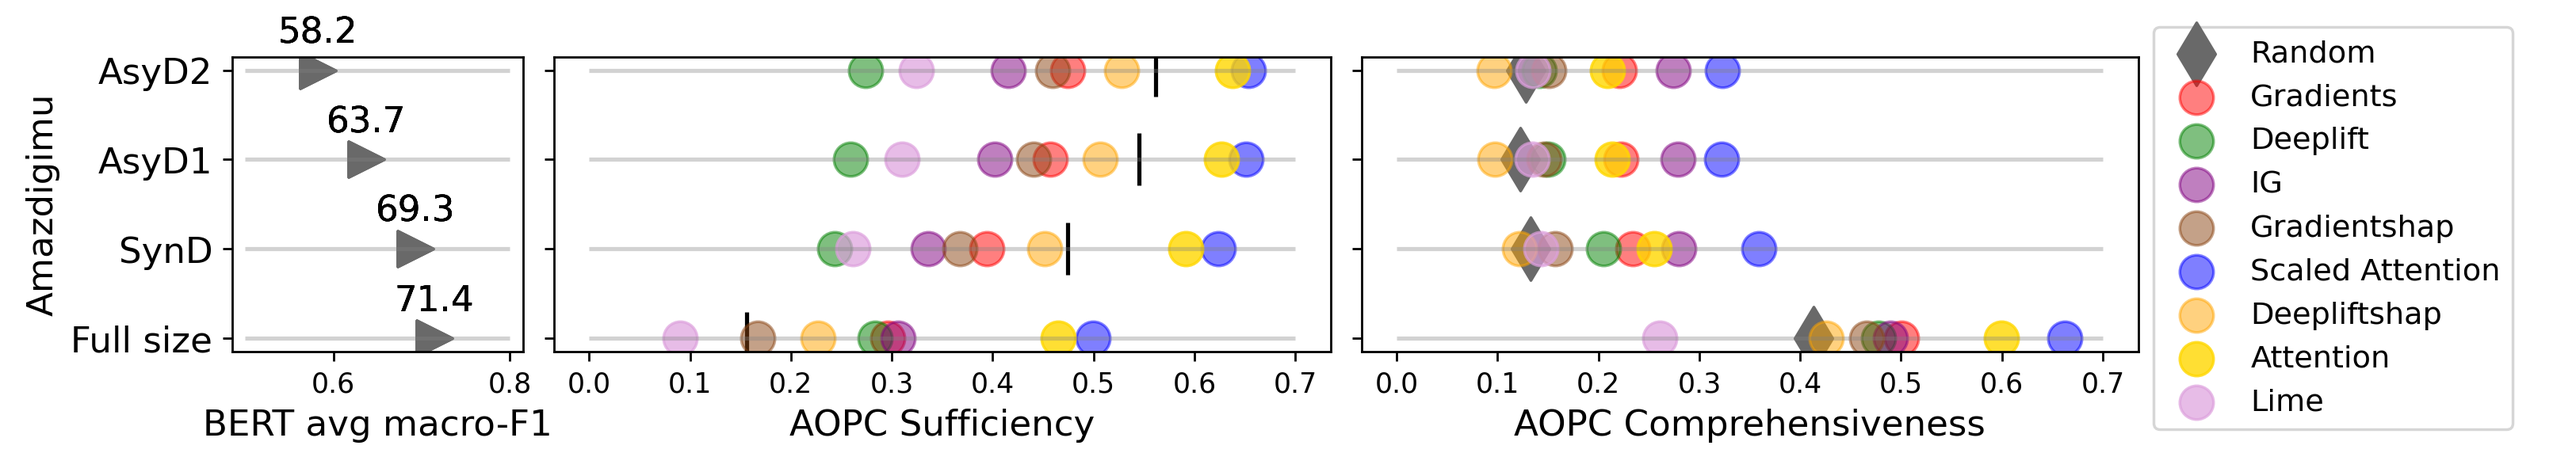
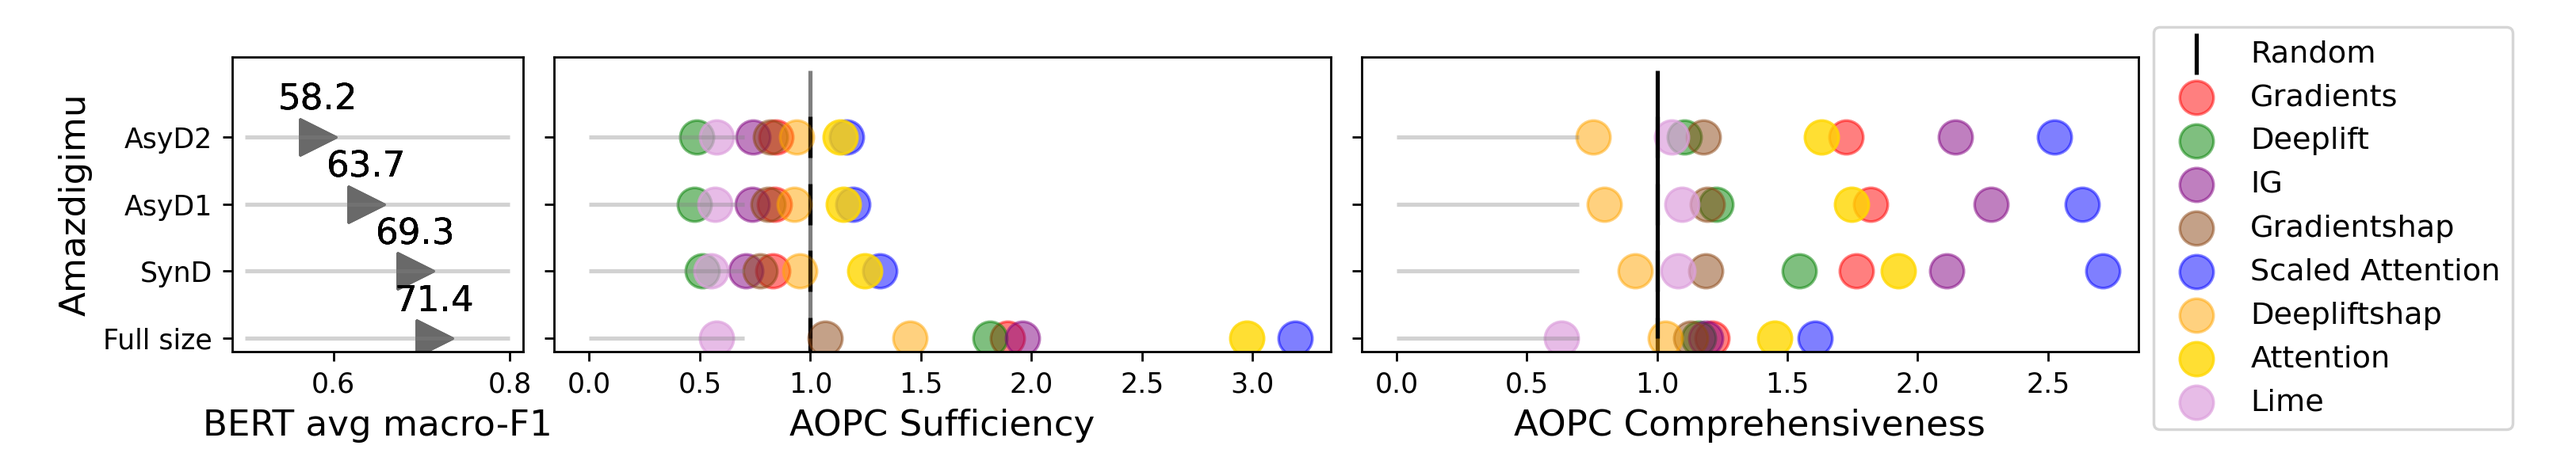
m

diff --git a/saved_everything/lollipop_ration.py b/saved_everything/lollipop_ration.py
@@ -1,0 +1,174 @@
+import numpy as np
+import pandas as pd
+import matplotlib.pyplot as plt
+
+from matplotlib.cm import ScalarMappable
+from matplotlib.lines import Line2D
+from mpl_toolkits.axes_grid1.inset_locator import inset_axes
+
+df = pd.read_csv("all_tasks_all_posthoc.csv")
+print(df)
+df = df[df['thresholder'].str.contains('topk')] # topk
+
+df['gradients'] = df['gradients']/df['random']
+df['deeplift'] = df['deeplift']/df['random']
+df['attention'] = df['attention']/df['random']
+df['lime'] = df['lime']/df['random']
+df['gradientshap'] = df['gradientshap']/df['random']
+df['deepliftshap'] = df['deepliftshap']/df['random']
+df['scaled attention'] = df['scaled attention']/df['random']
+df['ig'] = df['ig']/df['random']
+
+df['random'] = df['random']/df['random']
+
+print(df)
+
+data = 'Amazdigimu'
+df = df[df['Task'].str.contains(str(data))]
+print(df)
+suff = df[df['Rationales_metrics'].str.contains('AOPC_sufficiency')]
+comp = df[df['Rationales_metrics'].str.contains('AOPC_comprehensiveness')]
+my_range=suff['Domain']
+print(df)
+
+ALPHA = 0.5
+SIZE = 150
+xlabel_size = 13
+ylabel_size = 15
+domainlabel_size = 20
+legend_font_size = 11
+
+if data == 'Xfact':
+    bert_min = 0.37
+    bert_max = 0.39
+    suff_min = 0.3
+    suff_max = 0.5
+    comp_min = 0.1
+    comp_max = 0.35
+elif data == 'Factcheck':
+    bert_min = 0.65
+    bert_max = 0.8
+    suff_min = 0.15
+    suff_max = 0.55
+    comp_min = 0.1
+    comp_max = 0.6
+elif data == 'Agnews':
+    bert_min = 0.8
+    bert_max = 0.95
+    suff_min = 0.25
+    suff_max = 0.5
+    comp_min = 0.1
+    comp_max = 0.4
+elif data == 'Amazdigimu':
+    bert_min = 0.5
+    bert_max = 0.8
+    suff_min = 0.0
+    suff_max = 0.7
+    comp_min = 0.0
+    comp_max = 0.7
+elif data == 'Amazpantry':
+    bert_min = 0.65
+    bert_max = 0.75
+    suff_min = 0.0
+    suff_max = 0.4
+    comp_min = 0.2
+    comp_max = 0.7
+elif data == 'Yelp':
+    bert_min = 0.55
+    bert_max = 0.65
+    suff_min = 0.1
+    suff_max = 0.5
+    comp_min = 0.1
+    comp_max = 0.6
+else:
+    bert_min = 0.37
+    bert_max = 0.39
+    suff_min = 0.3
+    suff_max = 0.5
+    comp_min = 0.1
+    comp_max = 0.35
+
+
+fig, ax = plt.subplots(1, 3, gridspec_kw={'width_ratios': [1.5, 4, 4]}, sharey='all', figsize=(13,2.3))
+temporal_order = ["Full size", "SynD", "AsyD1", "AsyD2"]
+
+
+# Set number of ticks for x-axis
+ax[0].set_yticks(range(len(my_range)))
+# Set ticks labels for x-axis
+ax[0].set_yticklabels(my_range)
+
+ax[0].hlines(y=my_range, xmin=bert_min, xmax=bert_max, color='grey', alpha=0.35)
+ax[0].scatter(df['mean-f1'], df['Domain'], color='dimgray', alpha=1, label='F1', marker=">", s=166) # marker='|'
+for x,y in zip(df['mean-f1'],df['Domain']):
+    label = format(100*x, '.1f')
+    ax[0].annotate(label, # this is the text
+                 (x,y), # these are the coordinates to position the label
+                 textcoords="offset points", # how to position the text
+                 xytext=(0,10), # distance from text to points (x,y)
+                 ha='center',
+                 fontsize= 13,
+                 ) 
+ax[0].set_xlabel('BERT avg macro-F1',fontsize=xlabel_size)
+ax[0].set_ylabel(str(data), fontsize=xlabel_size)
+#ax[0].set_yticklabels(my_range, fontsize=13)
+
+plt.plot()
+
+
+############################################################   SUFF  
+ax[1].hlines(y=my_range, xmin=suff_min, xmax=suff_max, color='grey', alpha=0.35)
+ax[1].vlines(x = 1, ymin=0, ymax=4, color='black', alpha=0.5)
+ax[1].scatter(suff['random'], my_range, color='black', alpha=1, label='Random', marker='|', s=230)
+
+ax[1].scatter(suff['gradients'], my_range, color='red', alpha=ALPHA , label='Gradients', s=SIZE)
+ax[1].scatter(suff['deeplift'], my_range, color='green', alpha=ALPHA , label='Deeplift', s=SIZE)
+ax[1].scatter(suff['ig'], my_range, color='purple', alpha=ALPHA , label='IG', s=SIZE)
+ax[1].scatter(suff['gradientshap'], my_range, color='saddlebrown', alpha=ALPHA , label='Gradientshap', s=SIZE)
+ax[1].scatter(suff['scaled attention'], my_range, color='blue', alpha=ALPHA , label='Scaled Attention', s=SIZE)
+ax[1].scatter(suff['deepliftshap'], my_range, color='orange', alpha=ALPHA , label='Deepliftshap', s=SIZE)
+ax[1].scatter(suff['attention'], my_range, color='gold', alpha=ALPHA+0.3, label='Attention', s=SIZE)
+ax[1].scatter(suff['lime'], my_range, color='plum', alpha=ALPHA+0.2 , label='Lime', s=SIZE)
+ax[1].set_xlabel('AOPC Sufficiency',fontsize=xlabel_size)
+plt.plot()
+
+
+########################################   COM  #################################
+# plt.subplot(133)
+
+# The horizontal plot is made using the hline function
+ax[2].hlines(y=my_range, xmin=comp_min, xmax=comp_max, color='grey', alpha=0.35)
+ax[2].vlines(x = 1, ymin=0, ymax=4, color='black', alpha=1)
+ax[2].scatter(comp['random'], my_range, color='black', alpha=1, label='Random', marker='|', s=230)
+
+ax[2].scatter(comp['gradients'], my_range, color='red', alpha=ALPHA , label='Gradients', s=SIZE)
+ax[2].scatter(comp['deeplift'], my_range, color='green', alpha=ALPHA , label='Deeplift', s=SIZE)
+ax[2].scatter(comp['ig'], my_range, color='purple', alpha=ALPHA , label='IG', s=SIZE)
+ax[2].scatter(comp['gradientshap'], my_range, color='saddlebrown', alpha=ALPHA , label='Gradientshap', s=SIZE)
+ax[2].scatter(comp['scaled attention'], my_range, color='blue', alpha=ALPHA , label='Scaled Attention', s=SIZE)
+ax[2].scatter(comp['deepliftshap'], my_range, color='orange', alpha=ALPHA , label='Deepliftshap', s=SIZE)
+ax[2].scatter(comp['attention'], my_range, color='gold', alpha= ALPHA+0.3, label='Attention', s=SIZE)
+ax[2].scatter(comp['lime'], my_range, color='plum', alpha=ALPHA+0.2 , label='Lime', s=SIZE)
+ax[2].set_xlabel('AOPC Comprehensiveness',fontsize=xlabel_size)
+plt.plot()
+
+
+plt.subplots_adjust(
+    left=0.09,
+    bottom=0.224, 
+    right=0.83, 
+    top=0.874, 
+    wspace=0.05, 
+    hspace=0.2,
+    )
+
+
+
+plt.legend(bbox_to_anchor=(1.02, 1.1), loc='upper left', borderaxespad=0, fontsize=legend_font_size)
+#fig.update_layout(yaxis5=dict(type='category',categoryorder='category ascending'))
+fig1 = plt.gcf()
+
+plt.show()
+plt.draw()
+fig1.savefig('./plot/contig_'+str(data)+'.png', dpi=250)
+#plt.savefig('./plot/'+str(data), format='png') # bbox_inches = 'tight', dpi=350,
